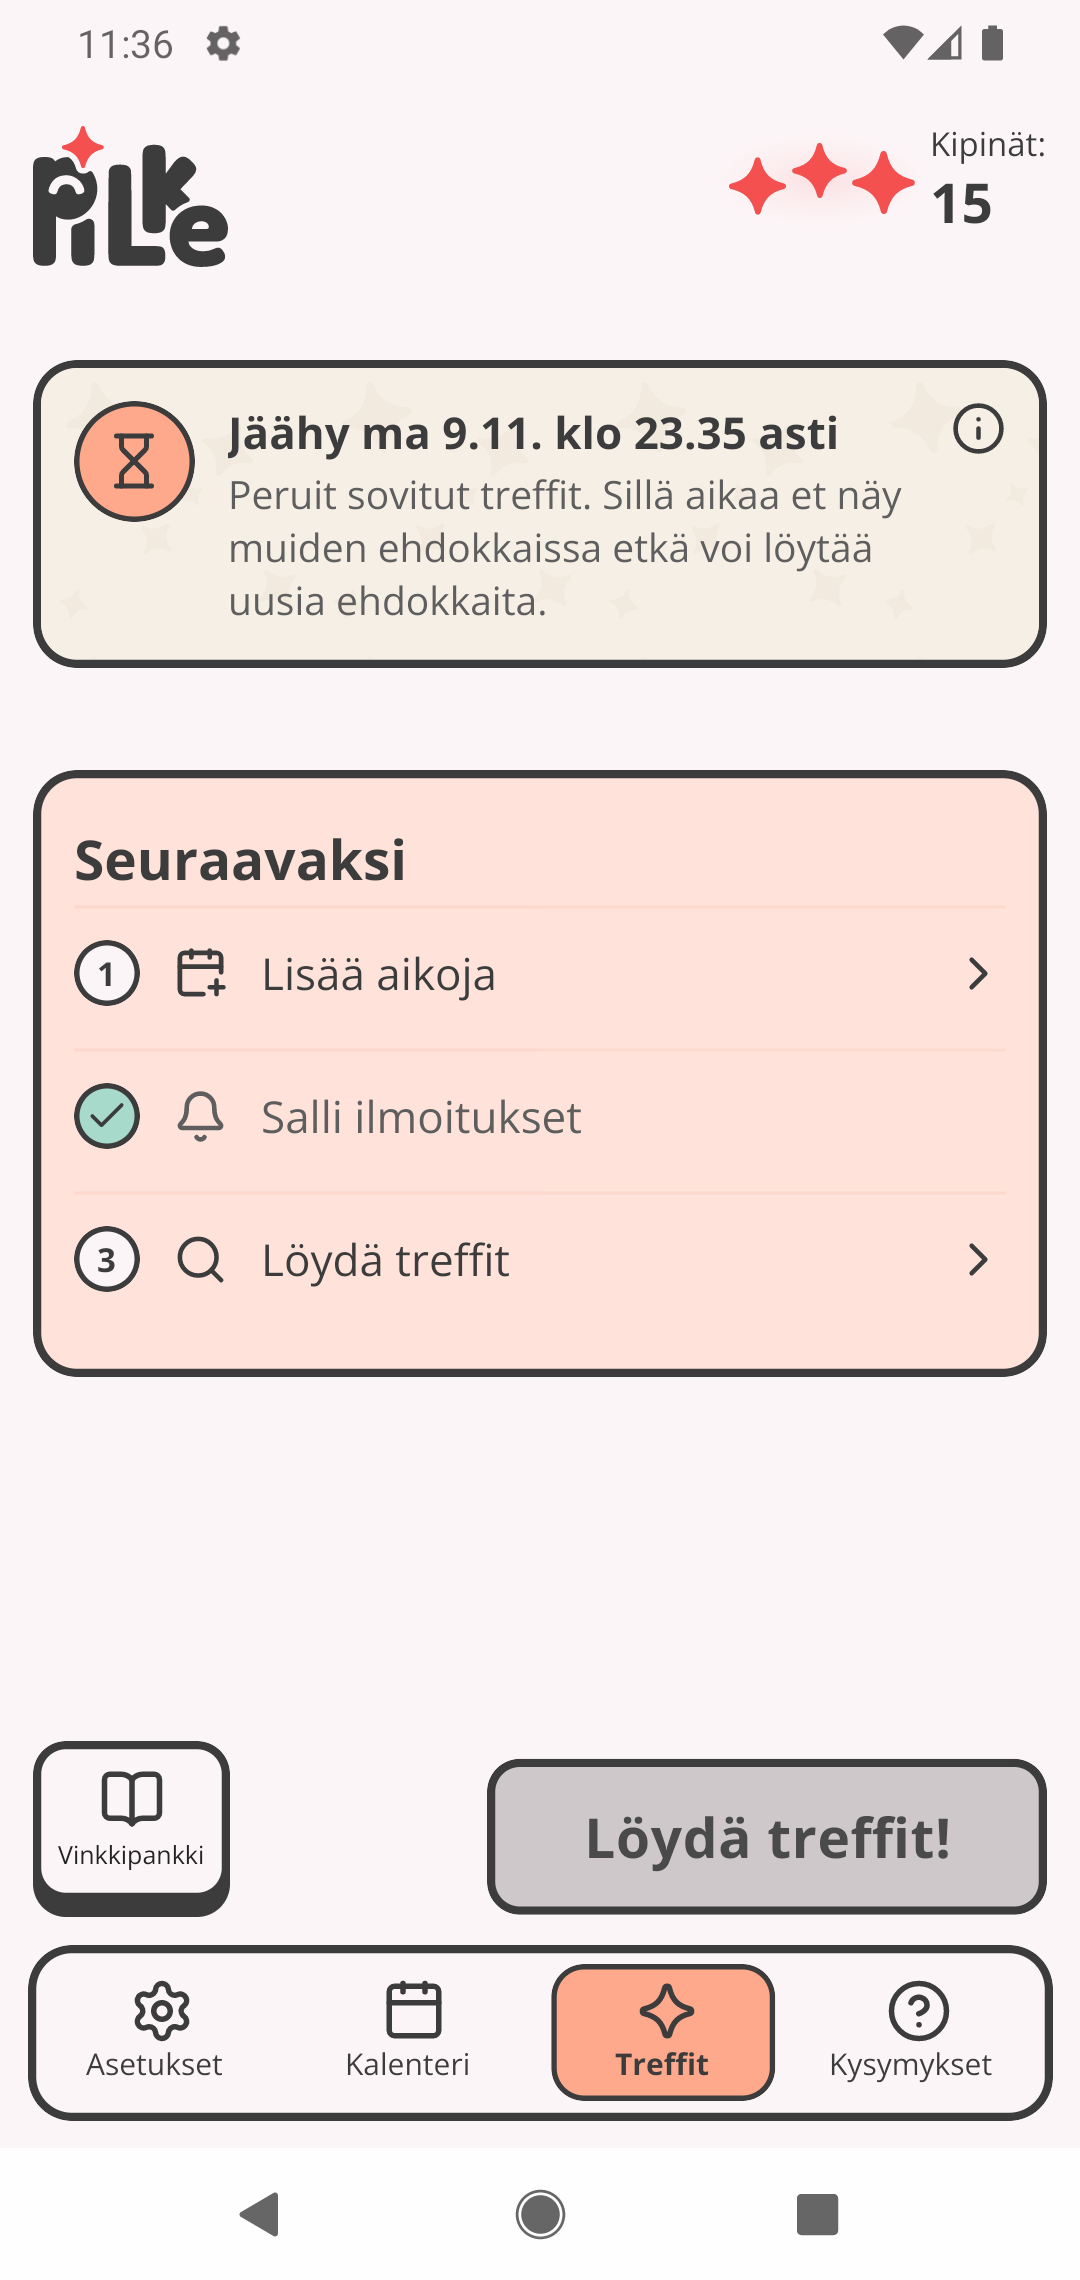
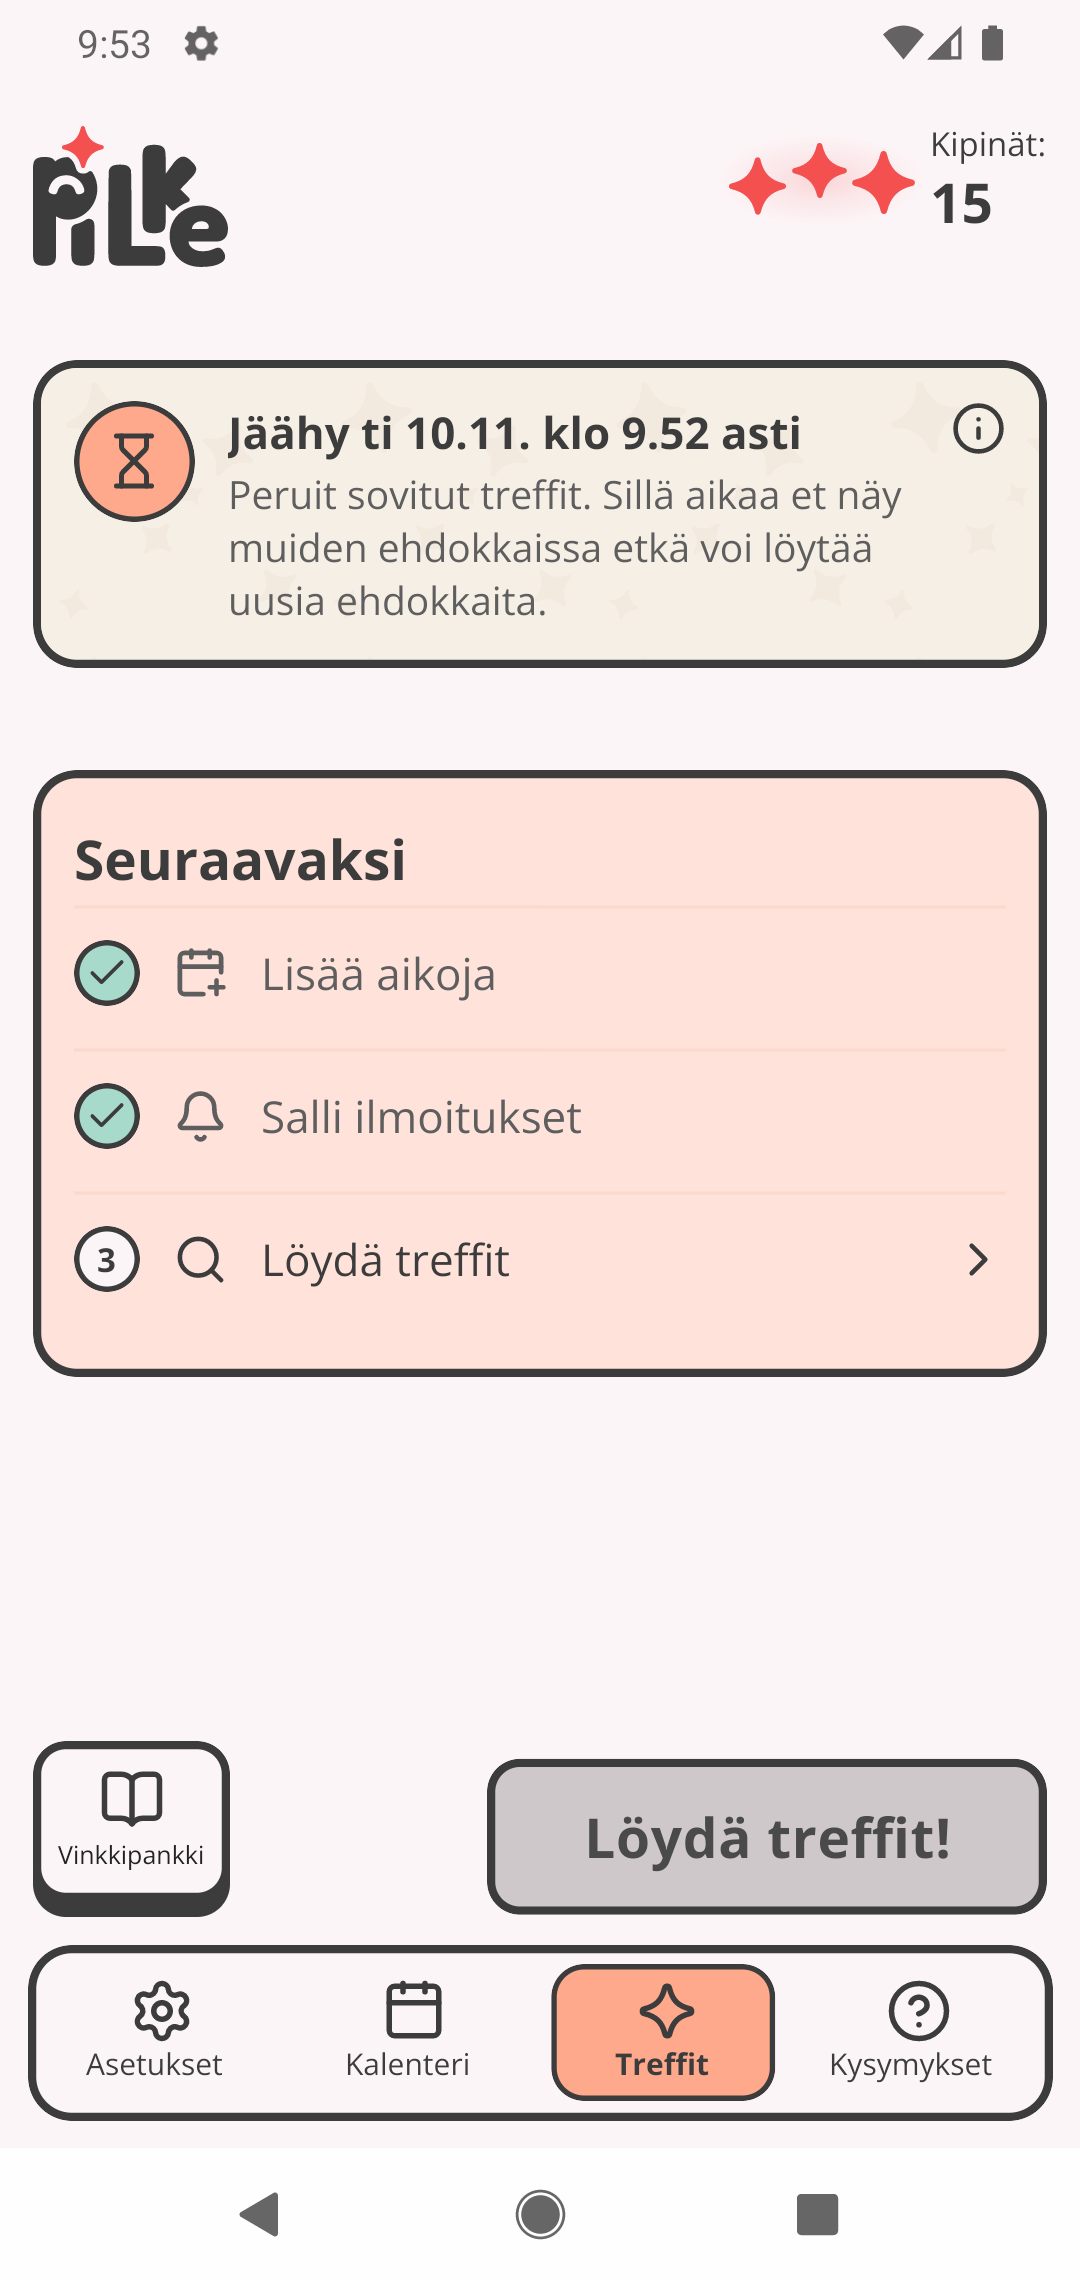
Pictures and manual: Find a date, and Seuraavaksi's done Lisää aikoja, at pilke-app 7c44309
- English, everywhere it mirrors Löydä treffit: Find a date! on the home
  button, Find a date on the Kipinät step, in the manual's text and in its
  pictures (the home screen, the Kipinät step, the three cooldown notices,
  the way into Treffihistoria) and in the English hero.
- The three cooldown notices and the way into Treffihistoria, both languages:
  their account keeps a calendar, so Seuraavaksi's Lisää aikoja stands done,
  with a tick.
- Näin se toimii's Toiveet page and the manual's Treffihistoria, both
  languages: the pinned button keeps its gap above Android's navigation bar.

The rest stand: their screens did not change since d22c518. The story still
was retaken and came back the same.

Claude-Session: https://claude.ai/code/session_01GD9L6NkBiCqNs6T5pZN8hJ

diff --git a/docs/pictures.md b/docs/pictures.md
@@ -187,7 +187,7 @@ the flow inside it, and "in English" means that flow's copy derived by `manual-s
 | `asetukset` | Settings, Safety open | `screenshots.yaml`, launched `asReleased` so no tester-only row is drawn | The accordion's sections with their icons and round chevrons, Safety open with its whole explanation, the trusted-contact field and its save button, the tab bar. The most copy of any picture here, so it goes stale on wording as well as on layout |
 | `asetukset-en` | Settings, Safety open, English | `screenshots.yaml` in English | The same section in English, `Save number`. Drawn on `/en` in place of `asetukset` |
 | `hero-cutout-fi` | Home, populated, **inside a photograph, cut out** | `screens/treffit.png` composited by `scripts/photos/hero.py fi`, cut out by `scripts/photos/cutout.py` | Everything `treffit` shows, both Android bars included (the phone in the photo is an Android), bent round the phone's curved edges; the hand and phone only, transparent, on the page's coral disc, which clips the hand and arm; `hero-cutout-phone.png`, a mask of the same size, lets the phone and the fingers gripping it stand over the disc's edge, each by its own contour; the disc's circle is baked into both, so the page's geometry and `scripts/photos/cutout.py` change together. A reshoot of `treffit` reaches the page only through this composite |
-| `hero-cutout-en` | Home, English, **inside a photograph, cut out** | `scripts/photos/stills/treffit-en.png`, `screenshots.yaml` in English, composited by `hero.py en`, cut out with the Finnish one's alpha | The same fixture as `treffit`, in English: the three stacks, the spark counter (`Sparks:`), `Find dates!`, both Android bars |
+| `hero-cutout-en` | Home, English, **inside a photograph, cut out** | `scripts/photos/stills/treffit-en.png`, `screenshots.yaml` in English, composited by `hero.py en`, cut out with the Finnish one's alpha | The same fixture as `treffit`, in English: the three stacks, the spark counter (`Sparks:`), `Find a date!`, both Android bars |
 | `beta-invitation-fi` | Invitation received, **inside a photograph** | `screens/invitation.png` composited by `scripts/photos/beta.py fi` | What `invitation` shows, standing on the screen's foot as the app lays out on an iPhone, the home indicator in the gutter under `Sovittu!`; a drawn iOS status bar over the map, whose top rows, under the bar, are the map's own mirrored; a thumb covers the lower venue rows, `Hylkää` and `Takaisin`. Drawn in the footer's beta card on the front page only |
 | `beta-invitation-en` | Invitation received, English, **inside a photograph** | `screens/invitation-en.png` composited by `beta.py en` | The same in English; the thumb covers the lower venue rows, `Decline` and `Back` |
 | `date-bench-wide` | None: a stock photograph, no app in it | `scripts/photos/crops.py`, from the Pexels original | Two people talking on a garden bench, she laughing behind a hand and he leaning in, under *Nauttikaa treffeistä!* on `nain-se-toimii` in both languages. `date-bench-tall` is the same picture cut 4:5 for a phone, drawn from a `<source>` and so not listed above. Nothing in it shows the app, so it cannot go stale with it; the faces are small enough that a closer crop would make them recognisable, so neither crop goes nearer than it does |

diff --git a/src/content/manual/pilke-lyhyesti.en.md b/src/content/manual/pilke-lyhyesti.en.md
@@ -11,9 +11,9 @@ Using Pilke comes down to three things, and they matter equally: leave any one o
 - **Invite someone.** Find {{candidates.per_set}} candidates and send one of them an invitation. See [Who you are shown](/en/guide/ehdokkaat) and [Invitations](/en/guide/kutsut).
 - **Answer invitations and go on the dates.** When someone invites you, pick a time and a place, or decline. A date you agree to is one you keep. See [The day of the date](/en/guide/treffipaiva).
 
-![The Dates page: sparks at the top, invitations and dates in the middle, Find dates! at the bottom](shot:treffit#balance-counter,find-dates)
+![The Dates page: sparks at the top, invitations and dates in the middle, Find a date! at the bottom](shot:treffit#balance-counter,find-dates)
 
-The Dates page is where all three come together. At the top are your sparks (1). Pilke runs on them: they build up from your calendar and your dates, and {{petals.set_cost}} sparks send a date invitation. In the middle are the invitations waiting for your answer, the ones you have sent and your agreed dates. Under them is **Date history**, with the dates you have been on. Press **Find dates!** (2) to find new candidates. See [Sparks](/en/guide/kipinat).
+The Dates page is where all three come together. At the top are your sparks (1). Pilke runs on them: they build up from your calendar and your dates, and {{petals.set_cost}} sparks send a date invitation. In the middle are the invitations waiting for your answer, the ones you have sent and your agreed dates. Under them is **Date history**, with the dates you have been on. Press **Find a date!** (2) to find new candidates. See [Sparks](/en/guide/kipinat).
 
 ## Everything is said face to face
 
@@ -33,4 +33,4 @@ Creating a profile takes about fifteen minutes. Pilke asks for your phone number
 - **Date areas and things to do**, at least {{profile.min_categories}} of them. Venues are chosen from these.
 - **Your free times.** You say when you would most like to go on a date, and you can connect your phone's calendar. From these Pilke suggests date slots for the next week, and you check the suggestion before saving it. The more free times you mark, the better the candidates we can find. One {{calendar.min_slot_hours}}-hour slot is enough to start.
 
-When you confirm your phone number you get {{petals.signup_bonus}} welcome sparks. That is enough for one date invitation, so you can invite someone as soon as your profile is done. Last, you can allow notifications, and on **All set!** you press **Find dates**. If no candidates are found yet, **Next** on the Dates page tells you what you can do.
+When you confirm your phone number you get {{petals.signup_bonus}} welcome sparks. That is enough for one date invitation, so you can invite someone as soon as your profile is done. Last, you can allow notifications, and on **All set!** you press **Find a date**. If no candidates are found yet, **Next** on the Dates page tells you what you can do.

diff --git a/src/content/manual/kipinat.en.md b/src/content/manual/kipinat.en.md
@@ -14,7 +14,7 @@ Your sparks are at the top of the Dates page. This page covers where they come f
 | You confirm your phone number when you sign up | +{{petals.signup_bonus}}, once |
 | You keep {{calendar.petal_week_hours}} hours of free time marked for a week | +1 |
 | You go on a date and say how it went | +{{sparks.per_date}}, when you send the feedback |
-| You send a date invitation | −{{petals.set_cost}}, when you press **Find dates** |
+| You send a date invitation | −{{petals.set_cost}}, when you press **Find a date** |
 | Your invitation is declined | +{{petals.refund}} back |
 | Your invitation lapses because nobody answered within {{invitation.answer_hours}} hours | +{{petals.refund}} back |
 | The person you invited calls off your agreed date | +{{petals.refund}} back |
@@ -54,8 +54,8 @@ Refunds arrive whatever your count, so you can sometimes have more than {{petals
 
 ## When sparks are spent
 
-![The last step before your candidates: your sparks and the Find dates button](shot:date-wizard-petals#wizard-balance,date-wizard-send)
+![The last step before your candidates: your sparks and the Find a date button](shot:date-wizard-petals#wizard-balance,date-wizard-send)
 
-You see your sparks (1) before you send an invitation. {{petals.set_cost}} of them go as soon as you press **Find dates** (2). Then you find {{candidates.per_set}} candidates and choose who the invitation goes to.
+You see your sparks (1) before you send an invitation. {{petals.set_cost}} of them go as soon as you press **Find a date** (2). Then you find {{candidates.per_set}} candidates and choose who the invitation goes to.
 
 If {{candidates.per_set}} suitable candidates cannot be found, your sparks stay put. If you find candidates and invite none of them, the sparks do not come back. Your candidates wait for you for {{candidates.set_hours}} hours: see [Who you are shown](/en/guide/ehdokkaat).

diff --git a/src/content/manual/kutsut.en.md b/src/content/manual/kutsut.en.md
@@ -5,7 +5,7 @@ order: 50
 draft: true
 ---
 
-You send an invitation to one of your candidates. It took {{petals.set_cost}} sparks, and they went when you pressed **Find dates**. See [Sparks](/en/guide/kipinat).
+You send an invitation to one of your candidates. It took {{petals.set_cost}} sparks, and they went when you pressed **Find a date**. See [Sparks](/en/guide/kipinat).
 
 ## What you offer
 
